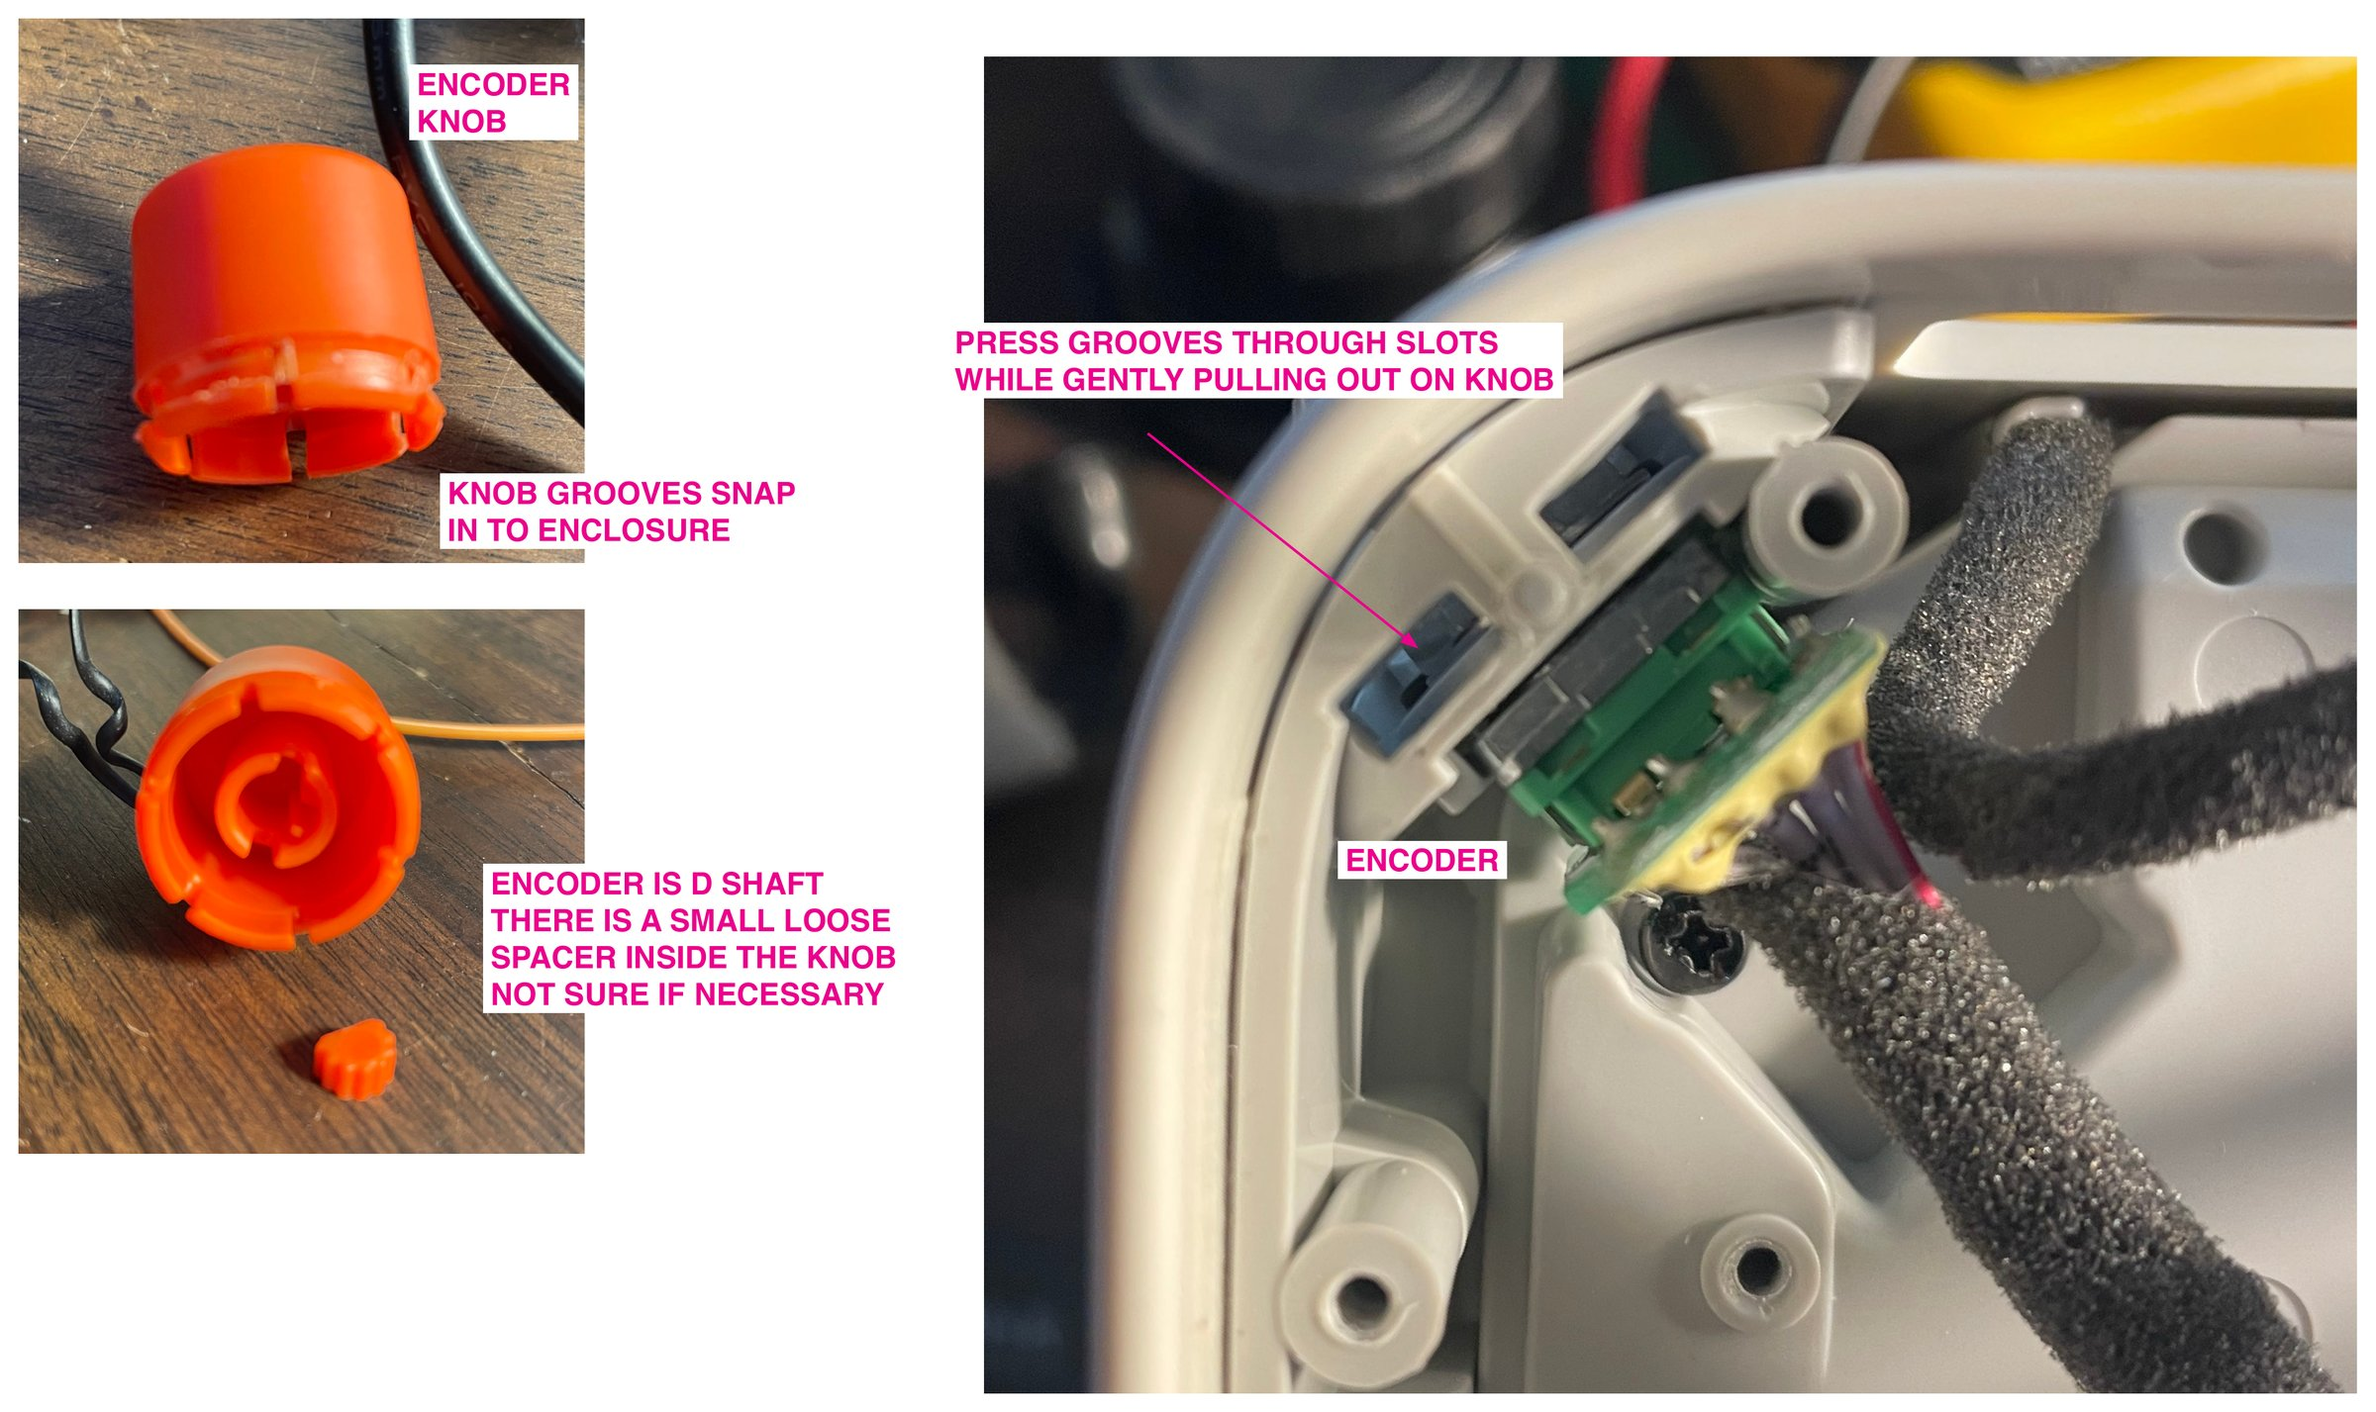
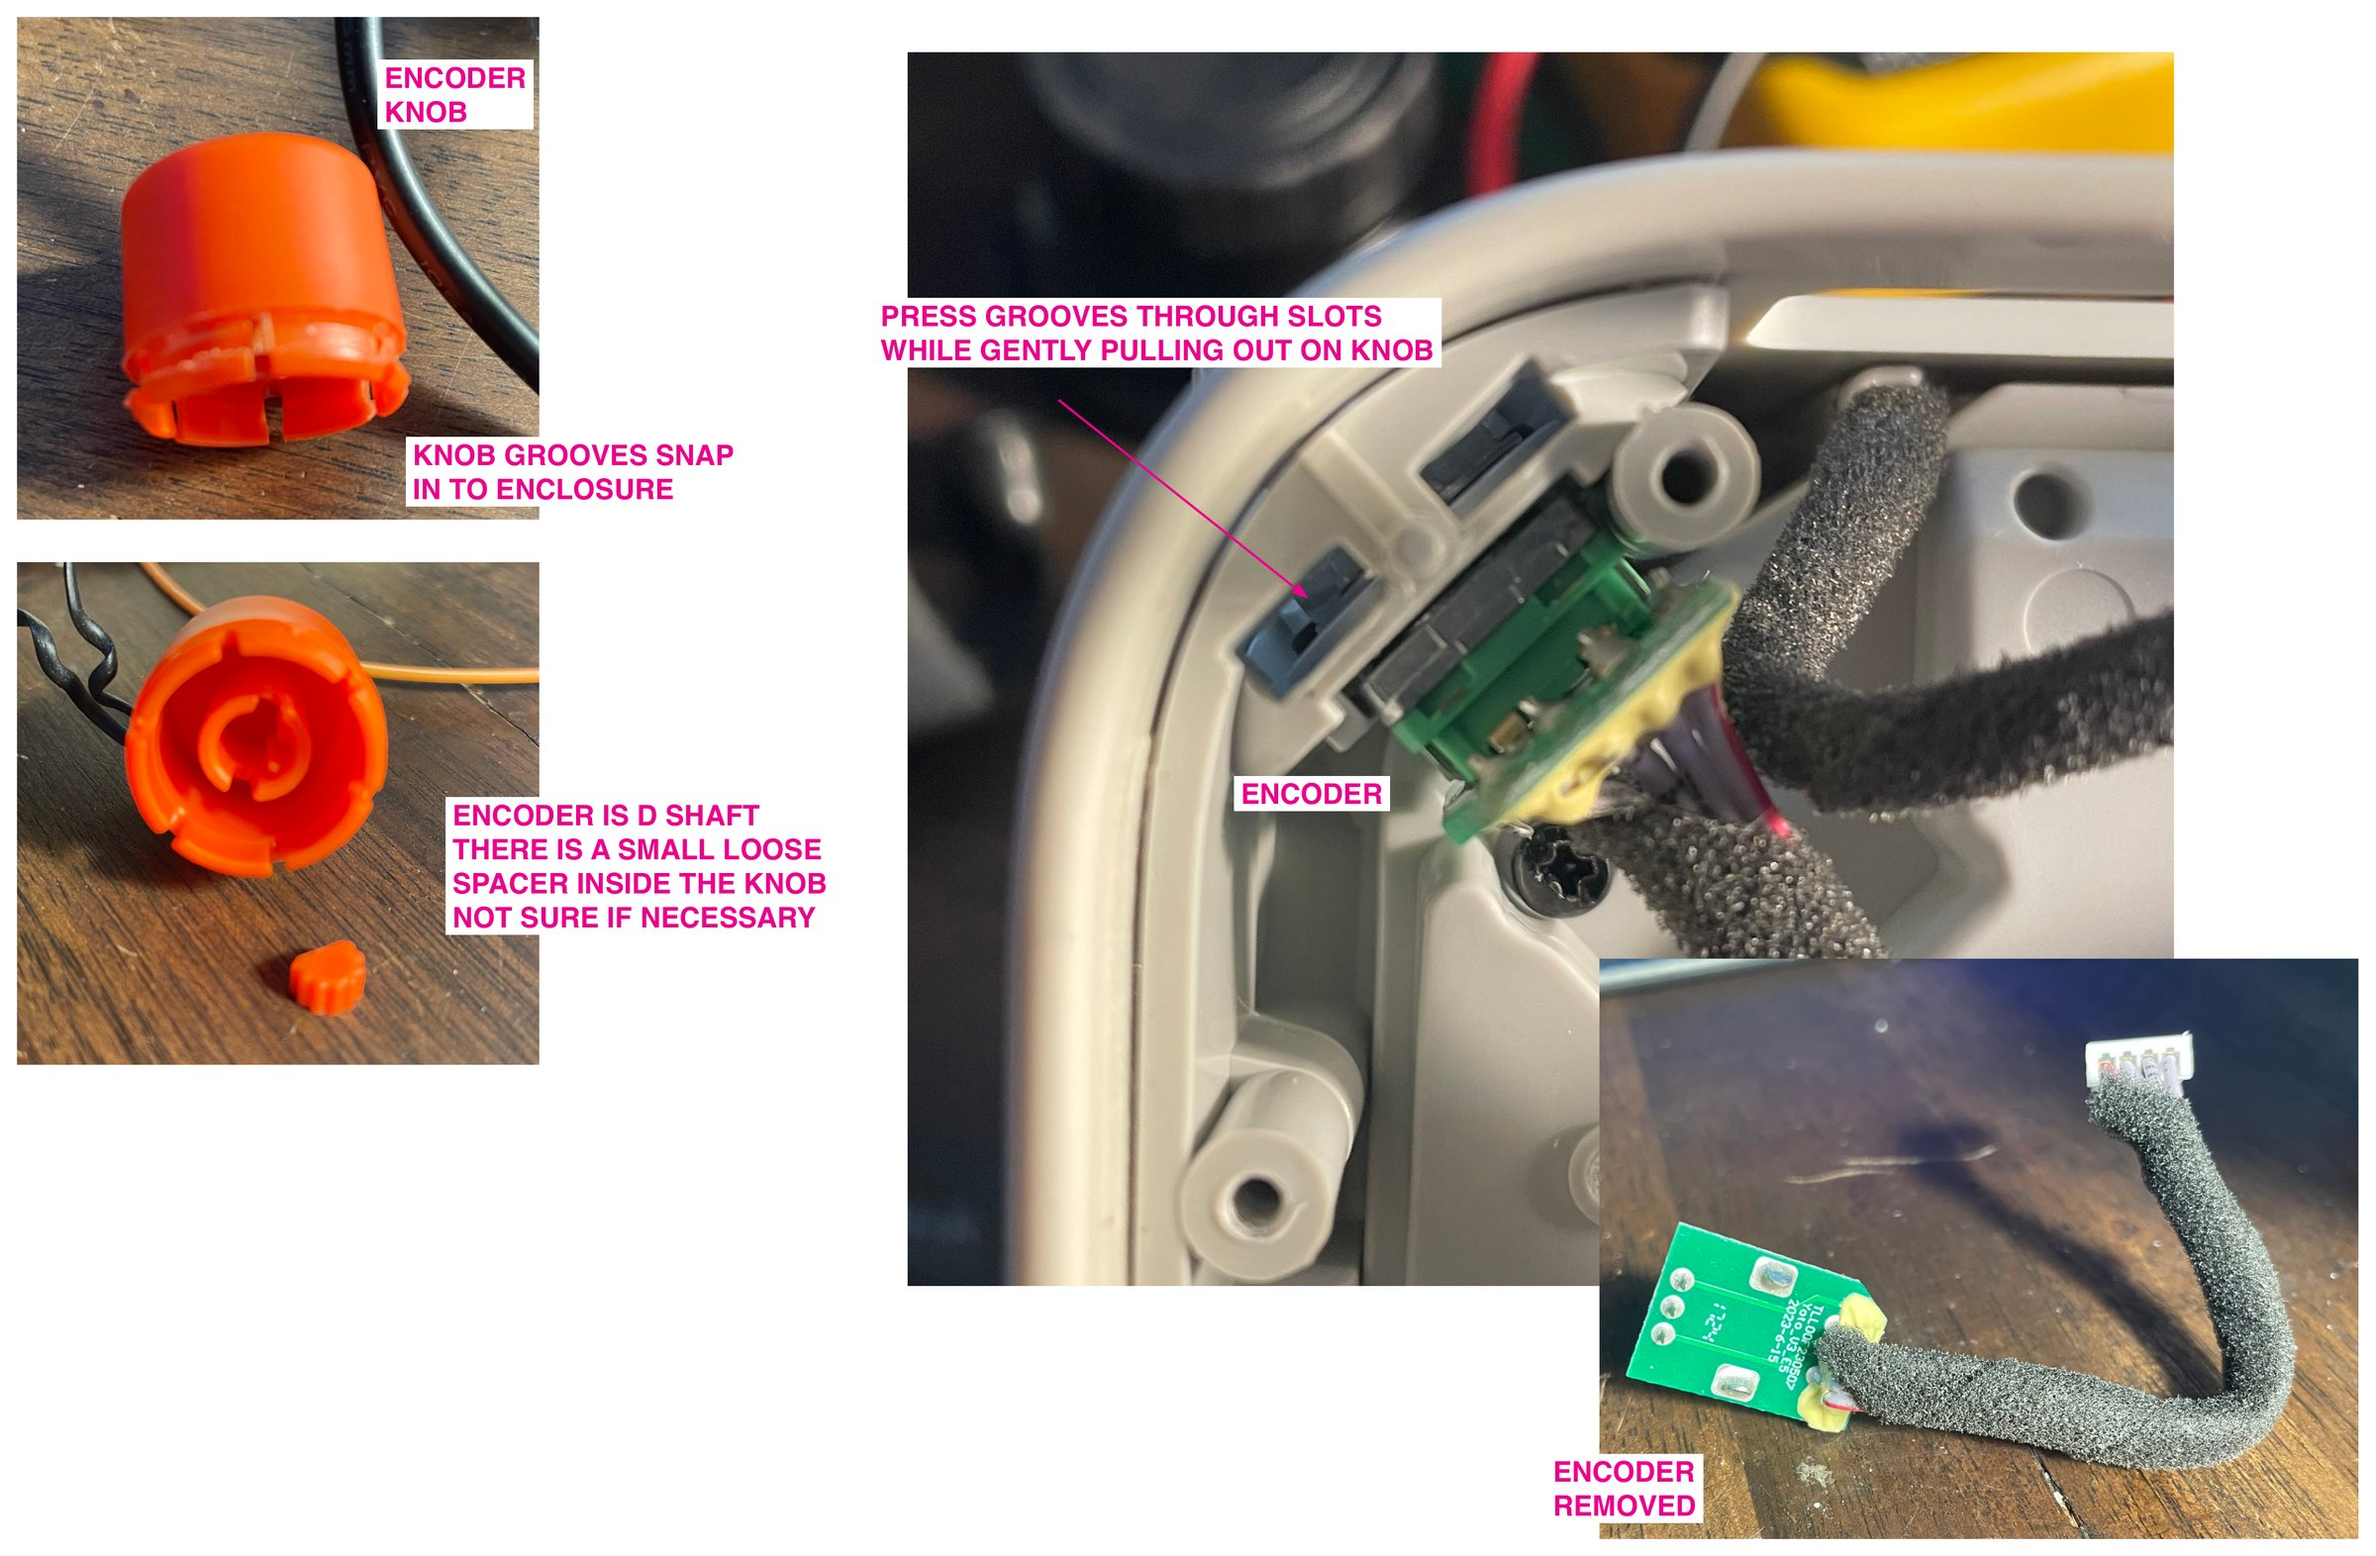
Add sound chamber removal and Qi and night light photos
Claude-Session: https://claude.ai/code/session_01SJbi6zgMHEQ4oFM7vpy6os

diff --git a/docs/disassembly.md b/docs/disassembly.md
@@ -1,6 +1,6 @@
 # Taking apart a Yoto Player V3
 
-Everything inside connects by plug-in cables, so no soldering is needed to open it. Go slowly: the connectors are tight, and pulling on wires is the easy way to break something. The Qi charger and night light boards are glued in, so I left them in place.
+Everything inside connects by plug-in cables, so no soldering is needed to open it. Go slowly: the connectors are tight, and pulling on wires is the easy way to break something.
 
 ## Diffuser screen
 
@@ -62,3 +62,21 @@ The encoders must be fully removed in order to remove the panel covering the aud
 - A panel hooks around the Wi-Fi antenna.
 - The battery sits behind a door.
 - The Qi charger and NFC antenna are also inside. The NFC antenna sits under the card slot.
+
+## Removing the sound chamber
+
+![Removing the sound chamber from the outer housing](../photos/10-removing-sound-chamber.jpg)
+
+The whole sound chamber comes out as one unit, so the speakers and gaskets don't need to come out individually.
+
+1. Fully remove both encoders.
+2. Remove the four screws that hold the sound module to the outer housing. They sit in deep chambers, so use a magnetized bit.
+3. Lift the sound chamber out. Four other screws hold the outer back to the sound module, and those don't need to come out.
+
+## Qi charger and night light
+
+![Qi charger and night light LED strip on the sound chamber](../photos/11-qi-and-night-light.jpg)
+
+The Qi charger is glued and screwed to the bottom of the sound chamber. The night light LED strip is glued to the chamber around the back of the sound module. I couldn't remove either without breaking it, so I left them in place.
+
+The Qi charger's ring of magnets is strong enough to pull screws off a driver. Before closing the player, make sure no loose screws are left inside.

diff --git a/docs/hardware-reference.md b/docs/hardware-reference.md
@@ -186,7 +186,7 @@ The V3-E config lists a different battery (EVE-LJDX90X-4900) than the fitted A&S
 | D300 | | Light sensor, part unidentified | Ambient light sensor on GPIO36, seen through an opening in the LED frame, with R307, R308 and C306 beside it | Confirmed by continuity |
 | U302 | 4D5, with data matrix | LIS2DH12, very likely | Accelerometer (0x18), next to TP40. About 2 mm square, package matches the datasheet, pin 1 connects to SCL | Very likely |
 | U301 | 28H DB | AW2028H, very likely | Night light LED driver (0x65), on the main board below the 6-pin connector. 8 pins: 3 on two sides, 1 on the others | Very likely |
-| Night light board | Not removed | Glued in place | Rear LEDs. The driver is on the main board | Observed |
-| Qi board | Not removed, glued in place | CV8013N, likely | Wireless charging receiver | Inferred |
+| Night light strip | Not removed | Glued in place | Rear LED strip around the back of the sound module. The driver is on the main board | Observed |
+| Qi board | Not removed, glued and screwed in place | CV8013N, likely | Wireless charging receiver on the bottom of the sound chamber, with a ring of magnets around the coil | Inferred |
 | U105 | 2015CH BDLR23 | CW2015CHBD, very likely | Battery fuel gauge, on the opposite side of the board near the battery connector | Very likely |
 | U105A | Empty | Not fitted | 3×3 pad grid beside U105. Fits a WLCSP-9, the package listed for the CW2215B, so likely an alternate gauge footprint | Inferred |

diff --git a/photos/README.md b/photos/README.md
@@ -13,5 +13,7 @@ All photos and annotations by Zack, CC BY 4.0.
 | `07-knobs-and-encoders.jpg` | Removing the encoder knobs |
 | `08-inside-enclosure.jpg` | NFC antenna, Qi charger, battery, speakers, antenna routing |
 | `09-programming-header-detail.jpg` | Header P200 and test points |
+| `10-removing-sound-chamber.jpg` | Sound chamber screws and removal |
+| `11-qi-and-night-light.jpg` | Qi coil and night light strip in place |
 
-The code label on the SD slot and the data matrix codes on the ESP32 module and U302 are covered on purpose, since they may identify the individual unit.
+The code label on the SD slot and the data matrix codes on the ESP32 module and U302 are covered on purpose, since they may identify the individual unit. The product label on the base is blurred in photos 10 and 11 for the same reason.
